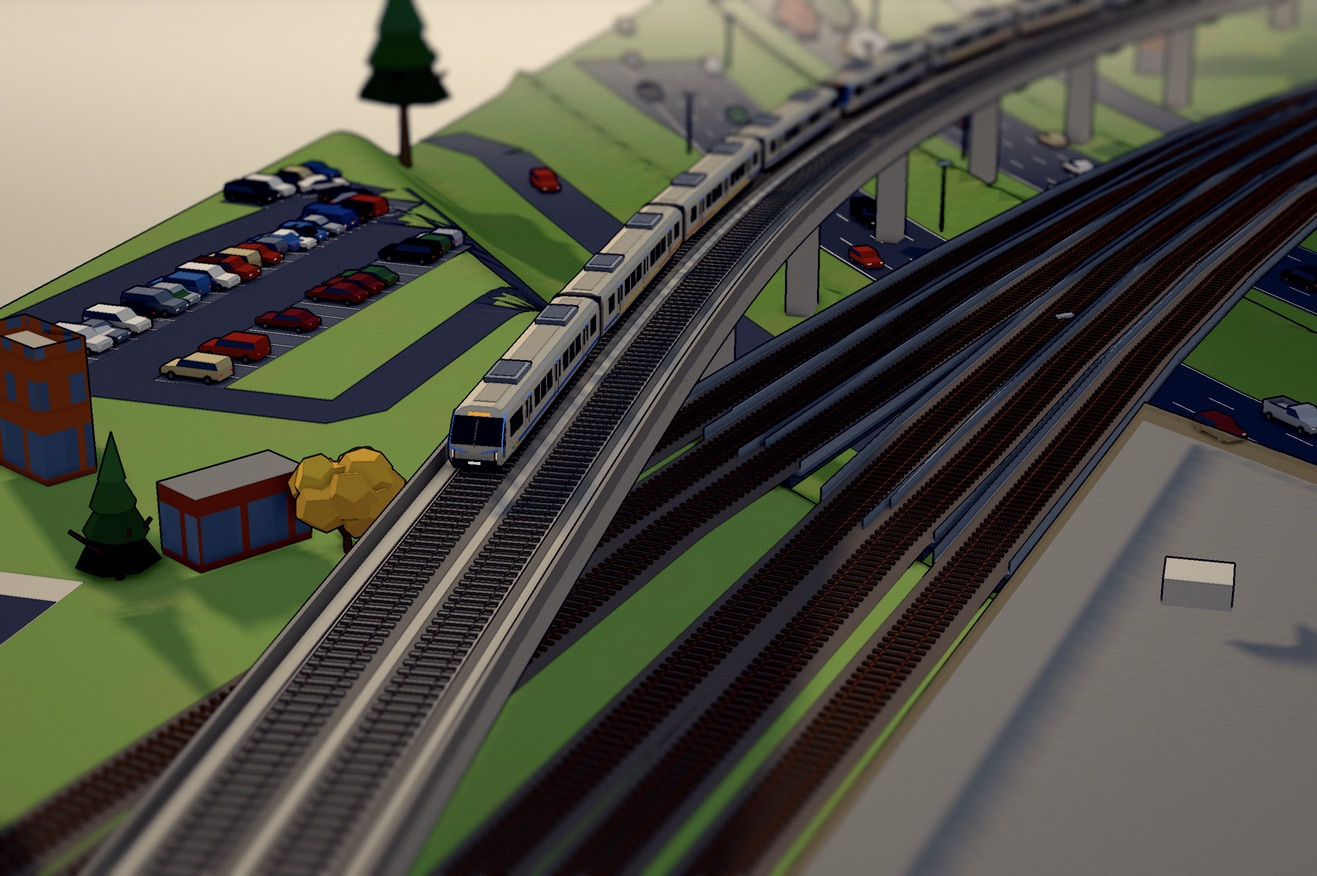
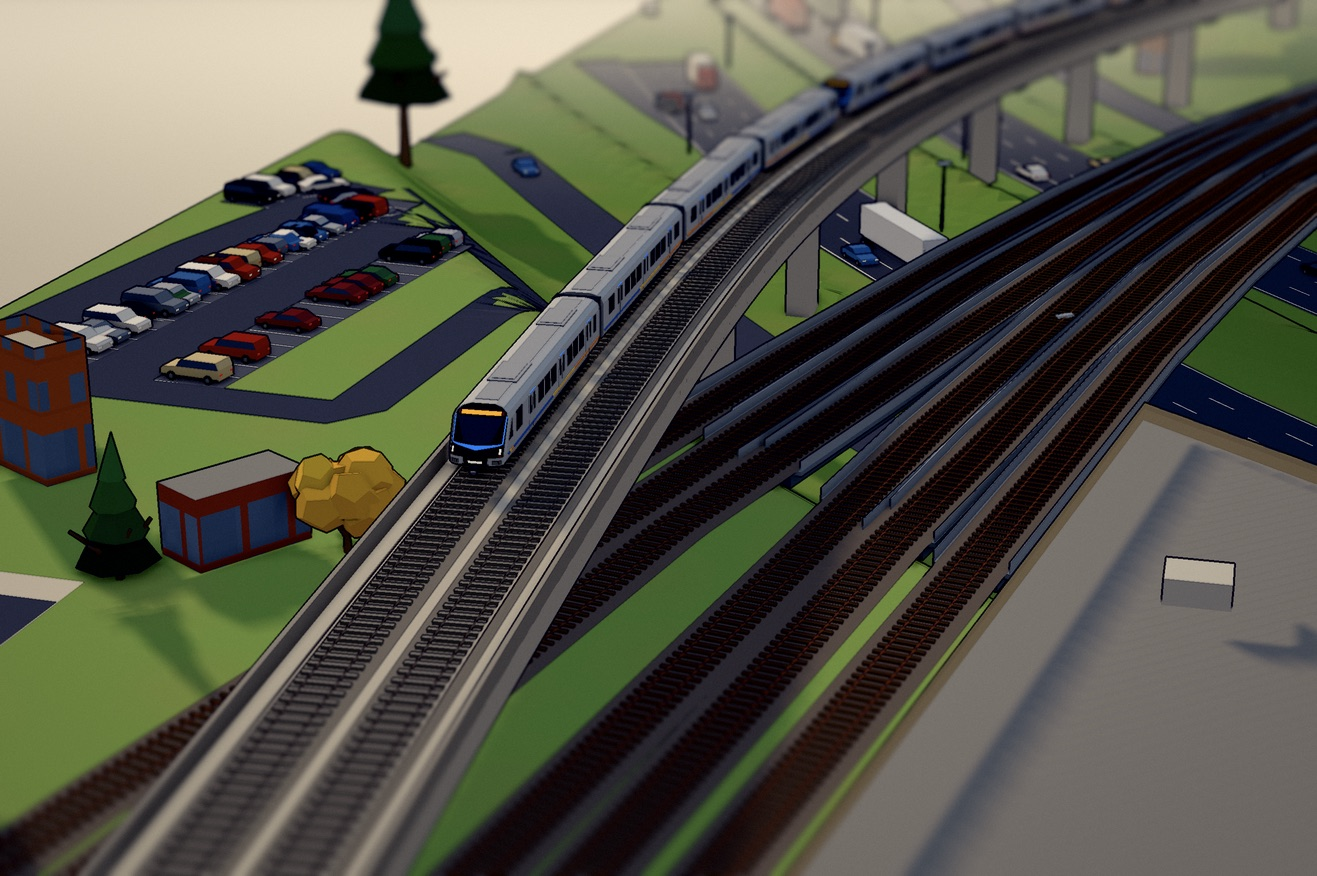
Build log + AGENTS.md style notes for the CQ400 model

diff --git a/docs/build-log.md b/docs/build-log.md
@@ -651,3 +651,45 @@ What changed:
 ![Reference](log/vignette/reference-ravine.jpg)
 ![Our trees after the pass](log/vignette/style-trees.jpg)
 ![Viaduct after the pass](log/vignette/style-viaduct.jpg)
+
+## 2026-11-21 · Modelling the CQ400 from photos
+
+MARTA's new Stadler CQ400s start rolling out next year, so the diorama skips the old fleet
+and models only the new train. The method: a **model lab** (`/models.html`) that shows the
+model large in studio light, switches line colour, lead, tail or coupled lighting, and day
+or night, and can lay a reference photo over the view. Sam critiqued it round by round from
+photos; I adjusted the code. No Blender; the model is built in TypeScript
+(`web/src/vignette/cq400.ts`).
+
+What the photos taught, in roughly the order Sam caught it:
+- **Matte grey, not champagne.** It only looks warm in sun.
+- **The front is one dark mask** framed by grey that wraps the corners. The line colour is a
+  **flush light**, not a raised rail: down both mask edges and in to a V under the
+  windscreen, thicker toward the point. Simplified to one shield windscreen (no end door).
+- **The nose is a straight rake,** upright at the bottom, not a rounded bullet. Its grey
+  side panel has a triangular window, then one rectangular cab window, then the first door.
+- **Bumpers are flush grey corners with vents,** not stuck-on boxes. The coupler is dark,
+  since the "red" in photos is the tail sign reflecting.
+- **Tail lights:** a red bar where the wordmark sits (we show no logos, only light), small
+  red lights at the ends of the destination display and red under each corner cluster.
+- **The livery:** short blue, yellow and orange chevrons on the nose side, then **every car**
+  carries blue, yellow and orange from the end facing the cab, all slanting the same way.
+- **Smooth roof:** only slight bumps over the roof equipment.
+
+Bugs with lessons:
+- **Floating features:** the mask was a flat fill between outline points while the lights
+  sat on the curved surface, so they floated off it. The nose is now one continuous surface
+  `z = F(x, y)`, and every feature is placed on that same function.
+- **Ragged seams:** the nose surface wasn't sampled at the body section's chamfer heights,
+  so its edge stepped across them. Sampling now includes those exact heights.
+- **The chevron's notch at the point:** the two halves of its path never shared the centre
+  point (one half was appended backwards). It's now one mitred ribbon, with each quad's
+  winding fixed to face forward.
+
+Consists: CQ400s run as fixed 4-car sets with open gangways. Green Line trains are drawn as one
+set (4 cars) and Blue Line as two (8), with the inner cabs dark. MARTA's live feed doesn't say
+which fleet a train is or how long it is, so lengths are typical for the line.
+
+![CQ400 in the model lab](log/vignette/cq400-lab-1.jpg)
+![Tail end at night](log/vignette/cq400-lab-3.jpg)
+![8-car Blue Line train on the viaduct](log/vignette/cq-viaduct.jpg)

diff --git a/AGENTS.md b/AGENTS.md
@@ -75,6 +75,10 @@ uses the timetable.
   and `.env*` are gitignored.
 - **Art direction.** Landmarks should look real and functional, and stylisation rules make
   everything else feel good. Recolouring the same boxes is a colour treatment, not artwork.
+  The chosen style (2026-11-20) follows a low-poly, ink-lined railway reference: leaf-clump
+  tree canopies, thin silhouette ink, a colour grade and film grain, and tilt-shift. Vehicles
+  are modelled in code from reference photos in the model lab (`/models.html`), with real
+  livery colours but no operator logos.
 - **Build log.** After a meaningful step (a new data source, a visual milestone, a bug with a
   lesson), append a dated entry to `docs/build-log.md` with concrete numbers and what
   surprised you, and save a screenshot to `docs/log/`. Write it blog-ready.
